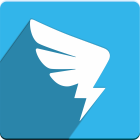
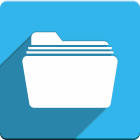
更换图标

Changed region(s): [[0.0, 0.1143, 0.8571, 1.0], [0.9714, 0.0, 1.0, 0.0571], [0.9714, 0.9429, 1.0, 0.9714]]

diff --git a/dingtalk_report/wizard/dingtalk_report_list.py b/dingtalk_report/wizard/dingtalk_report_list.py
@@ -4,7 +4,7 @@
 ###################################################################################
 
 import logging
-from odoo import api, fields, models
+from odoo import api, fields, models, _
 from odoo.exceptions import UserError
 from odoo.addons.dingtalk_base.tools import dingtalk_api
 
@@ -26,6 +26,8 @@ class DingTalkReportListTran(models.TransientModel):
         :return:
         """
         self.ensure_one()
+        if not self.report_id.category_id:
+            raise UserError(_("请先在钉钉日志模板中关联系统日志类别!"))
         user_list = list()
         for emp in self.emp_ids:
             user_list.append(emp.ding_id)
